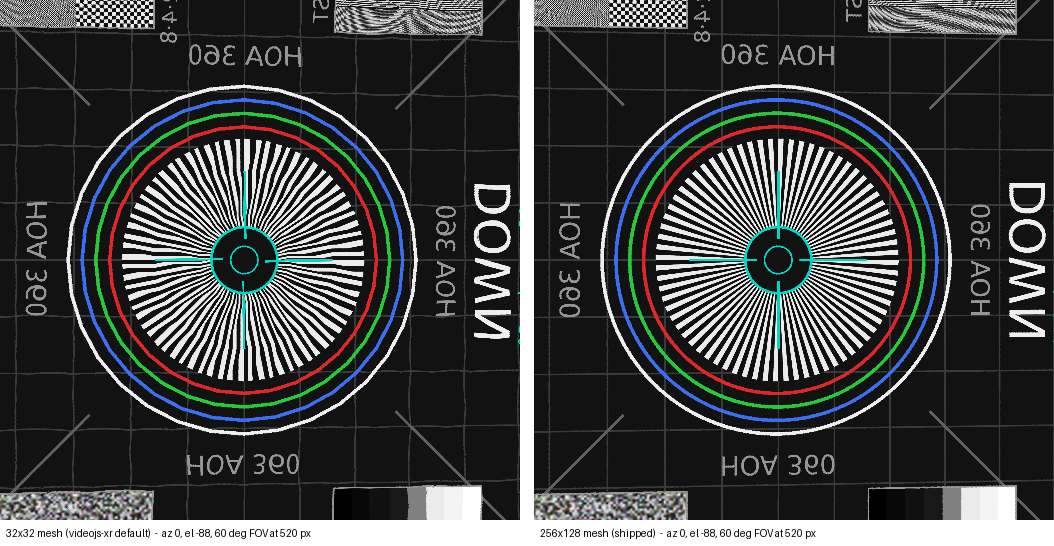
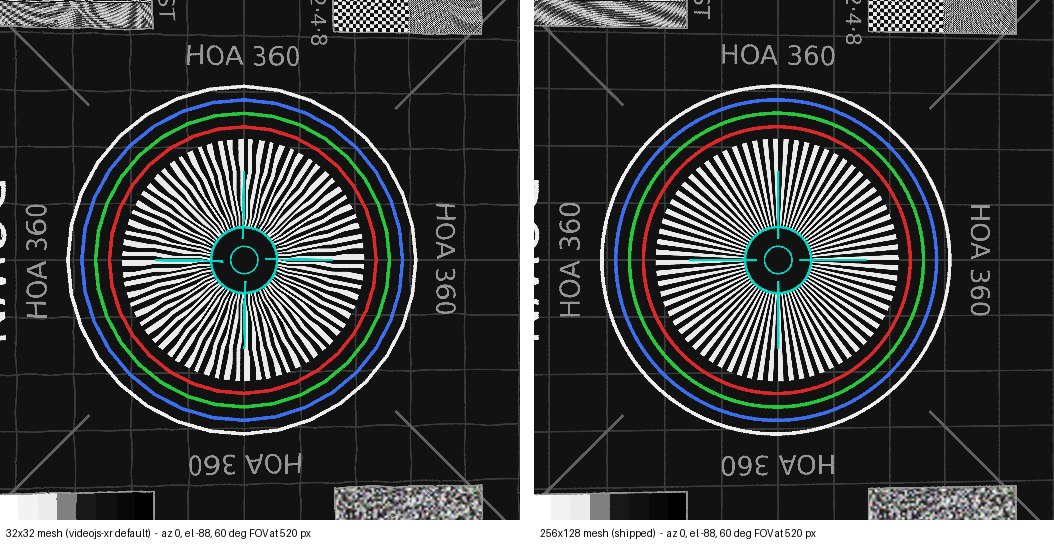
fix mirrored UV convention in the sphere-distortion measurement script
dir_to_uv computed longitude as atan2(z, -x), which is a genuine mirror
(== pi - atan2(z, x)) rather than a rotation offset, so every text label
in the committed before/after illustration read backwards. Real cause:
three.js's actual equirectUv shader uses atan2(z, x), no negation - this
standalone Python reimplementation had the sign wrong. vert/uv_to_dir
carried the same inversion to stay self-consistent as a round-trip pair,
which is also why the angular-error measurements the script exists to
produce were never actually wrong: a mirror doesn't change magnitude,
only left-right handedness of the rendered illustration. Regenerated the
committed PNG with the fix.

diff --git a/scripts/measure-sphere-distortion.py b/scripts/measure-sphere-distortion.py
@@ -38,23 +38,31 @@ import numpy as np
 
 
 def vert(iu, iv, W, H):
+    # x sign matches three.js's real equirectUv convention (atan2(z, x), no
+    # negation) - see dir_to_uv. Getting this wrong doesn't change any
+    # measured angular error (a mirror doesn't change magnitude), only
+    # whether the illustrative render reads correctly left-to-right.
     u = iu / W; v = iv / H
     phi = u * 2 * np.pi; theta = v * np.pi
-    return (np.array([-np.cos(phi) * np.sin(theta), np.cos(theta),
+    return (np.array([np.cos(phi) * np.sin(theta), np.cos(theta),
                       np.sin(phi) * np.sin(theta)]),
             np.array([u, 1 - v]))
 
 
 def dir_to_uv(d):
+    # atan2(z, x), matching three.js's actual equirectUv shader convention.
+    # Previously atan2(z, -x): a genuine mirror (== pi - atan2(z, x)), not
+    # merely a rotation offset, which is why render-sphere-distortion.py's
+    # output previously showed every text label backwards.
     x, y, z = d
     theta = np.arccos(np.clip(y, -1, 1))
-    phi = np.arctan2(z, -x) % (2 * np.pi)
+    phi = np.arctan2(z, x) % (2 * np.pi)
     return np.array([phi / (2 * np.pi), 1 - theta / np.pi])
 
 
 def uv_to_dir(uv):
     phi = uv[0] * 2 * np.pi; theta = (1 - uv[1]) * np.pi
-    return np.array([-np.cos(phi) * np.sin(theta), np.cos(theta),
+    return np.array([np.cos(phi) * np.sin(theta), np.cos(theta),
                      np.sin(phi) * np.sin(theta)])
 
 
